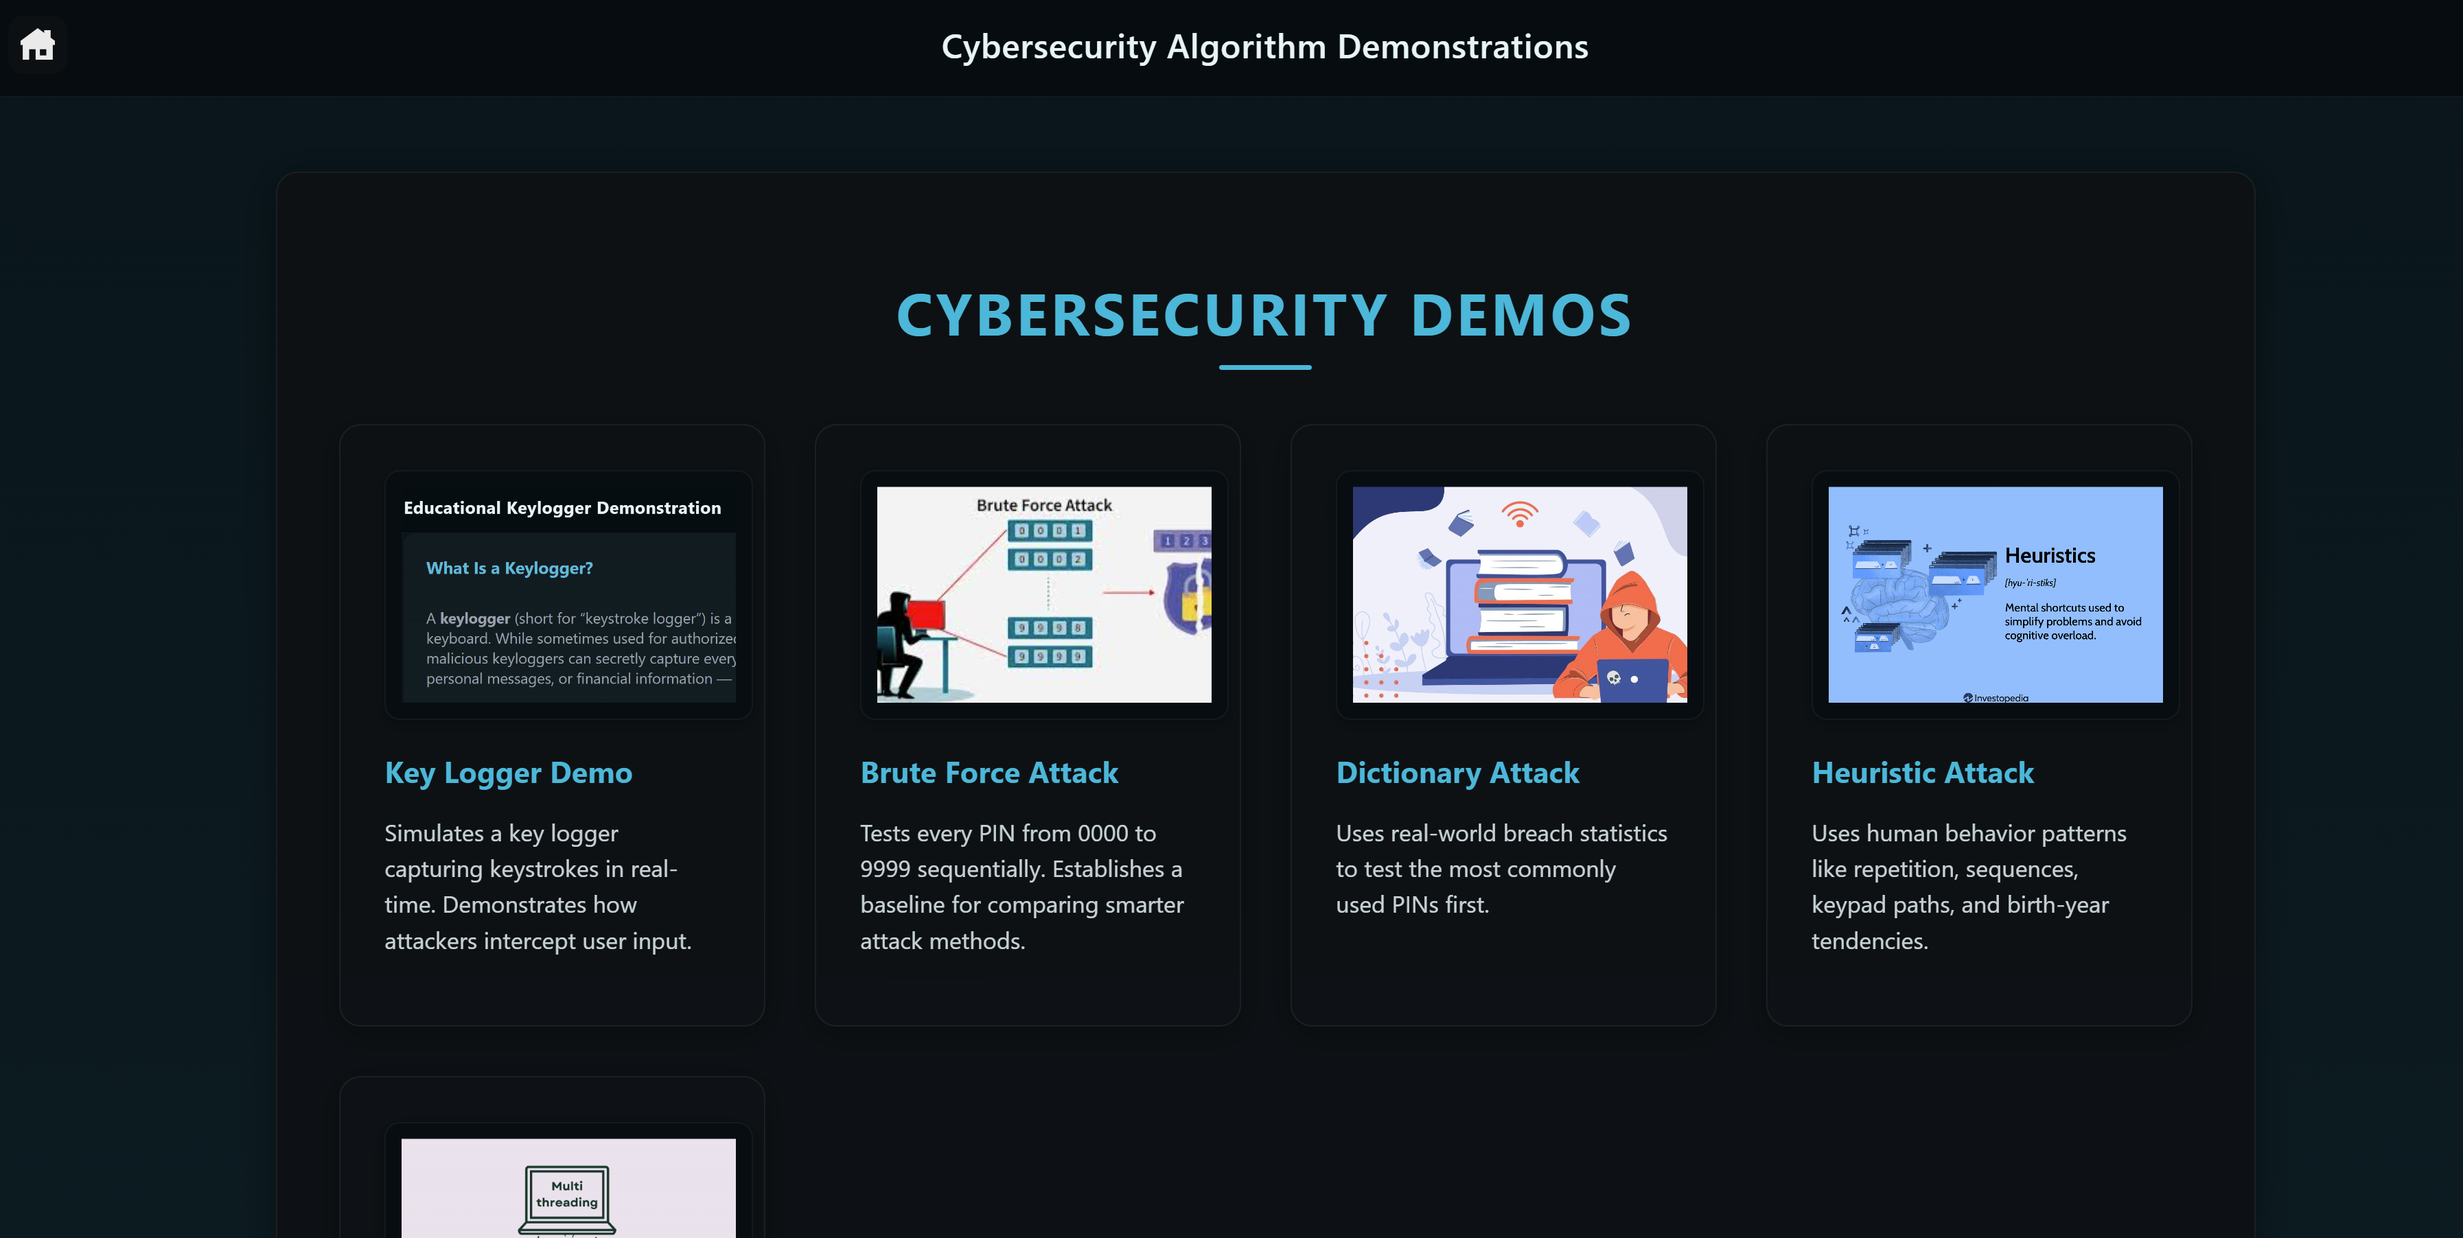
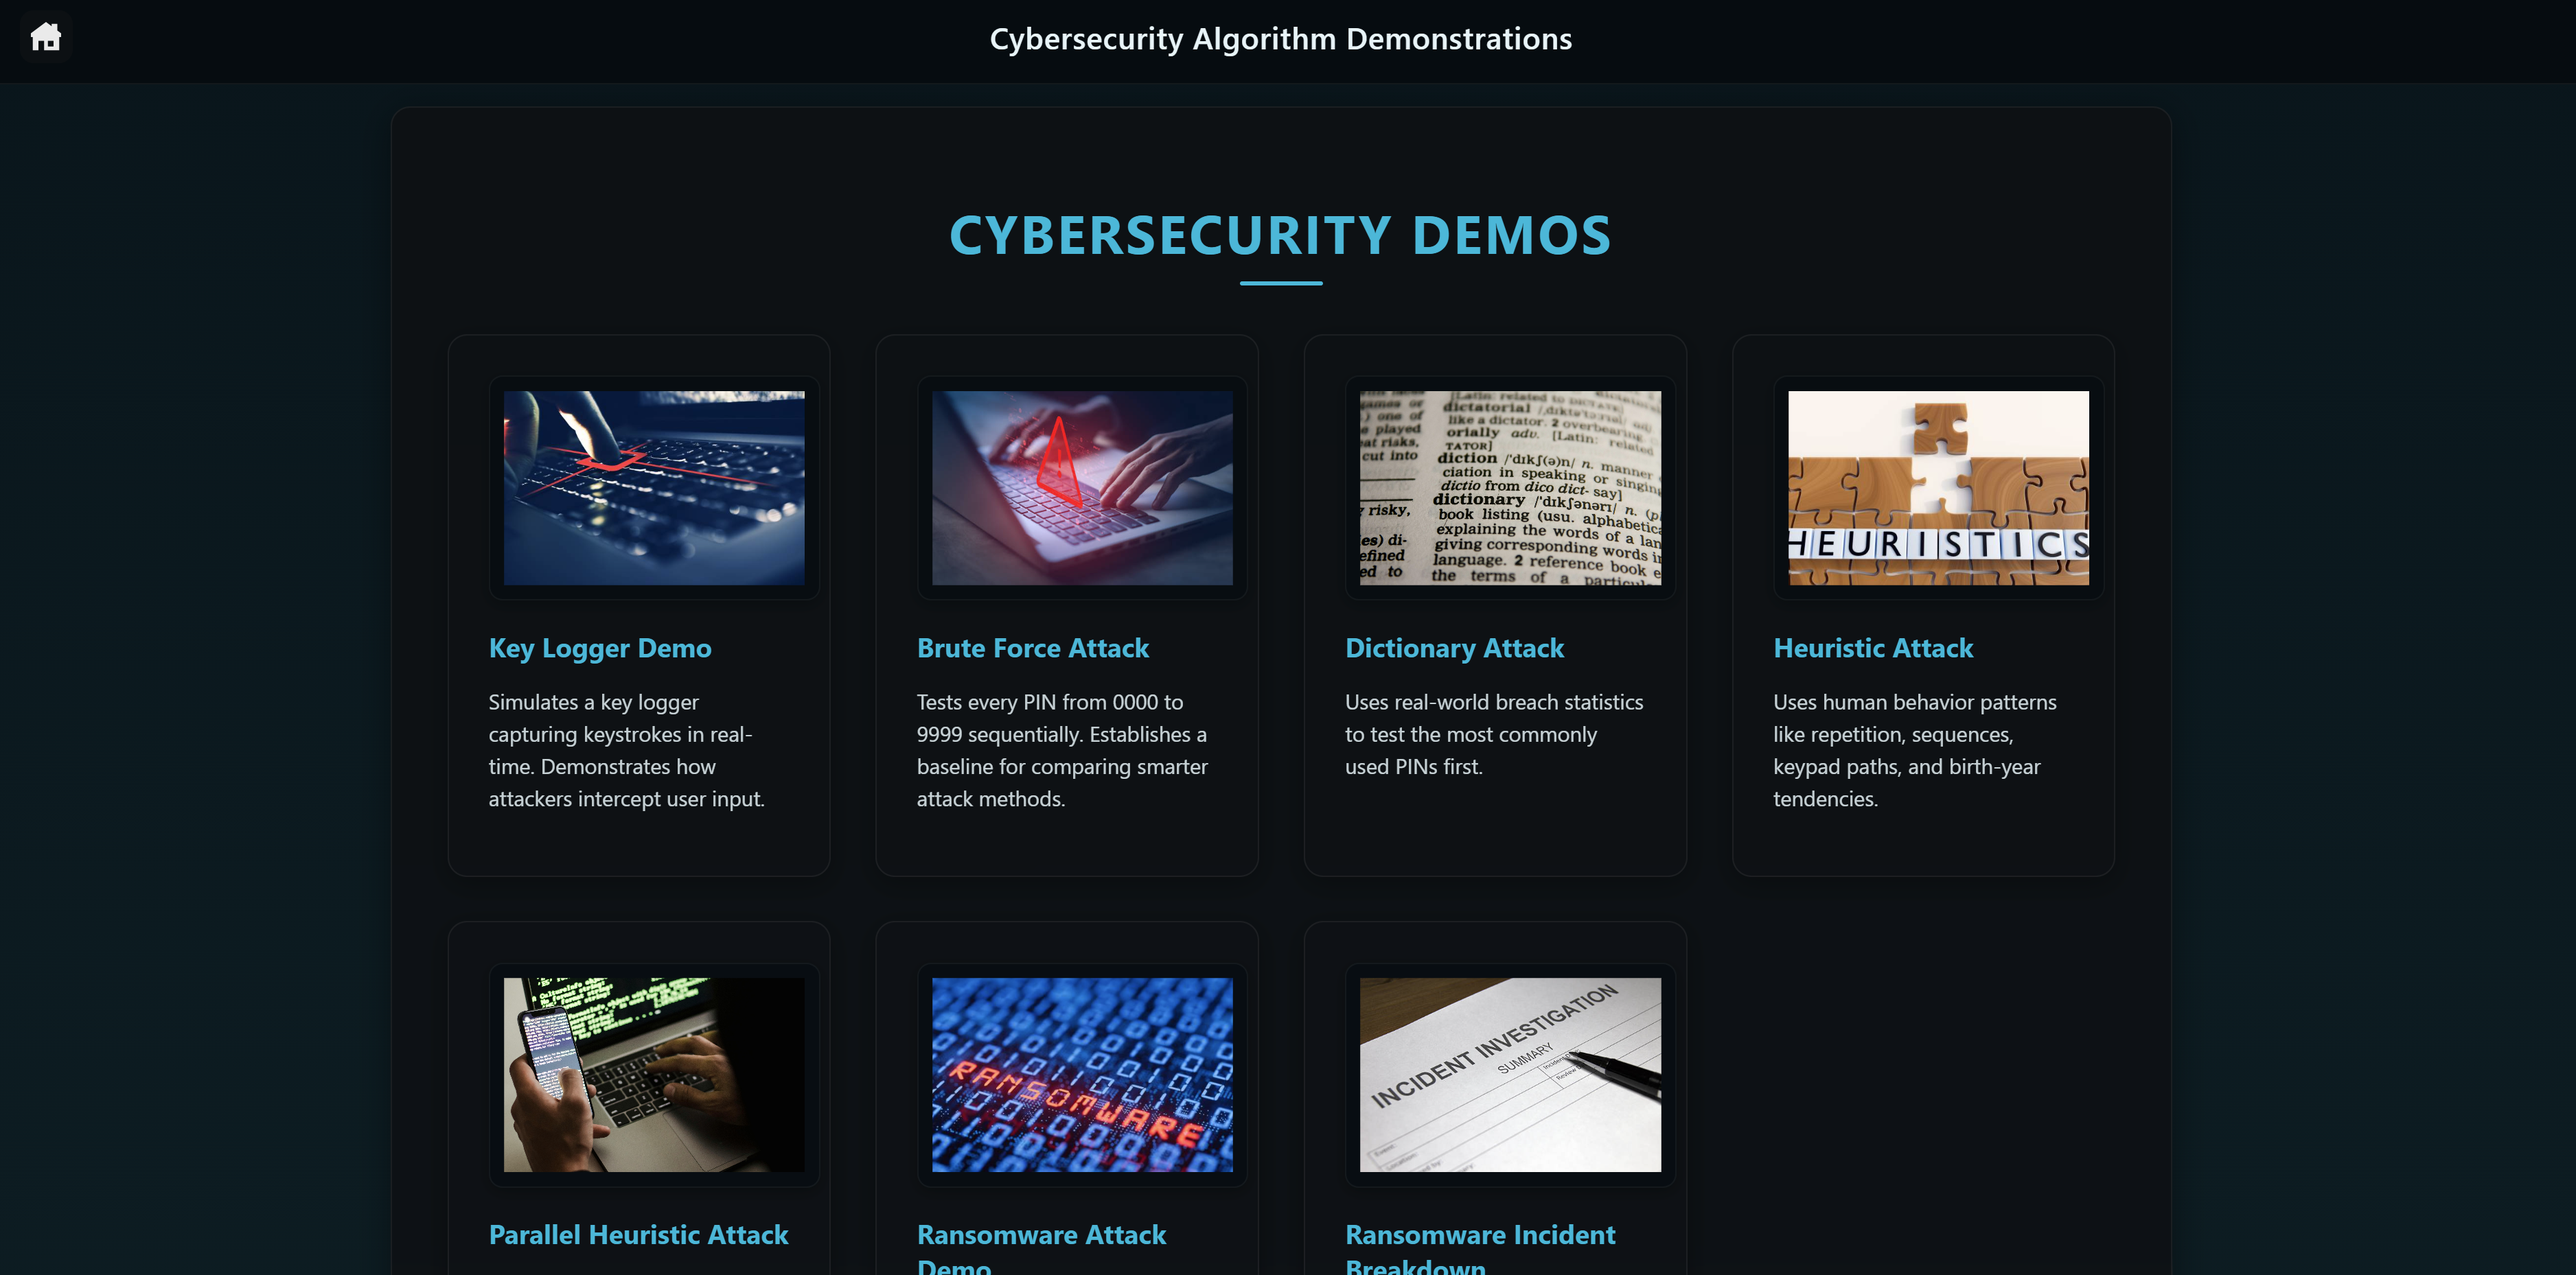
updated images

diff --git a/cybersecurityDemos/ransomwareDemo/demo/script.js b/cybersecurityDemos/ransomwareDemo/demo/script.js
@@ -43,12 +43,12 @@ let fileSystem = {
         expanded: false,
         files: [
             {
-                name: "team-photo.jpg",
+                name: "ransomware.jpg",
                 type: "JPEG Image",
                 size: "350 KB",
                 modified: "2025-09-28 4:17 PM",
                 encrypted: false,
-                content: src = "../../../images/team-photo.jpg"
+                content: "../../../images/ransomware.jpg"
             }
         ]
     },
@@ -278,7 +278,16 @@ renderFileSystem();
 function openFilePreview(file) {
     document.getElementById("fileModal").style.display = "flex";
     document.getElementById("fileModalTitle").textContent = `${file.name} (Preview)`;
-    document.getElementById("fileModalContent").textContent = file.content;
+    const box = document.getElementById("fileModalContent");
+
+    if (file.type.includes("Image")) {
+        // Image preview
+        box.innerHTML = `<img src="${file.content}" class="preview-image">`;
+    } else {
+        // Normal text preview
+        box.textContent = file.content;
+    }
+
 }
 
 document.getElementById("fileModalClose").onclick = () => {

diff --git a/cybersecurityDemos/index.html b/cybersecurityDemos/index.html
@@ -67,13 +67,13 @@
             </a>
 
             <a href="ransomwareDemo/demo/index.html" class="card">
-                <img src="../images/ransomware.png" class="project-thumb" alt="Ransomware Simulation">
+                <img src="../images/ransomware.jpg" class="project-thumb" alt="Ransomware Simulation">
                 <h3>Ransomware Attack Demo</h3>
-                <p>Simulates an employee launching UnapprovedPersonApp_Setup.exe on EmployeeWorkstation-01.</p>
+                <p>Simulates an employee launching UnapprovedApp_Setup.exe on EmployeeWorkstation-01.</p>
             </a>
 
             <a href="ransomwareDemo/breakdown/index.html" class="card">
-                <img src="../images/analysis.png" class="project-thumb" alt="Ransomware Breakdown">
+                <img src="../images/incident.jpg" class="project-thumb" alt="Ransomware Breakdown">
                 <h3>Ransomware Incident Breakdown</h3>
                 <p>Includes SIEM logs, Sysmon activity, Suricata alerts, and a professional IR report.</p>
             </a>
